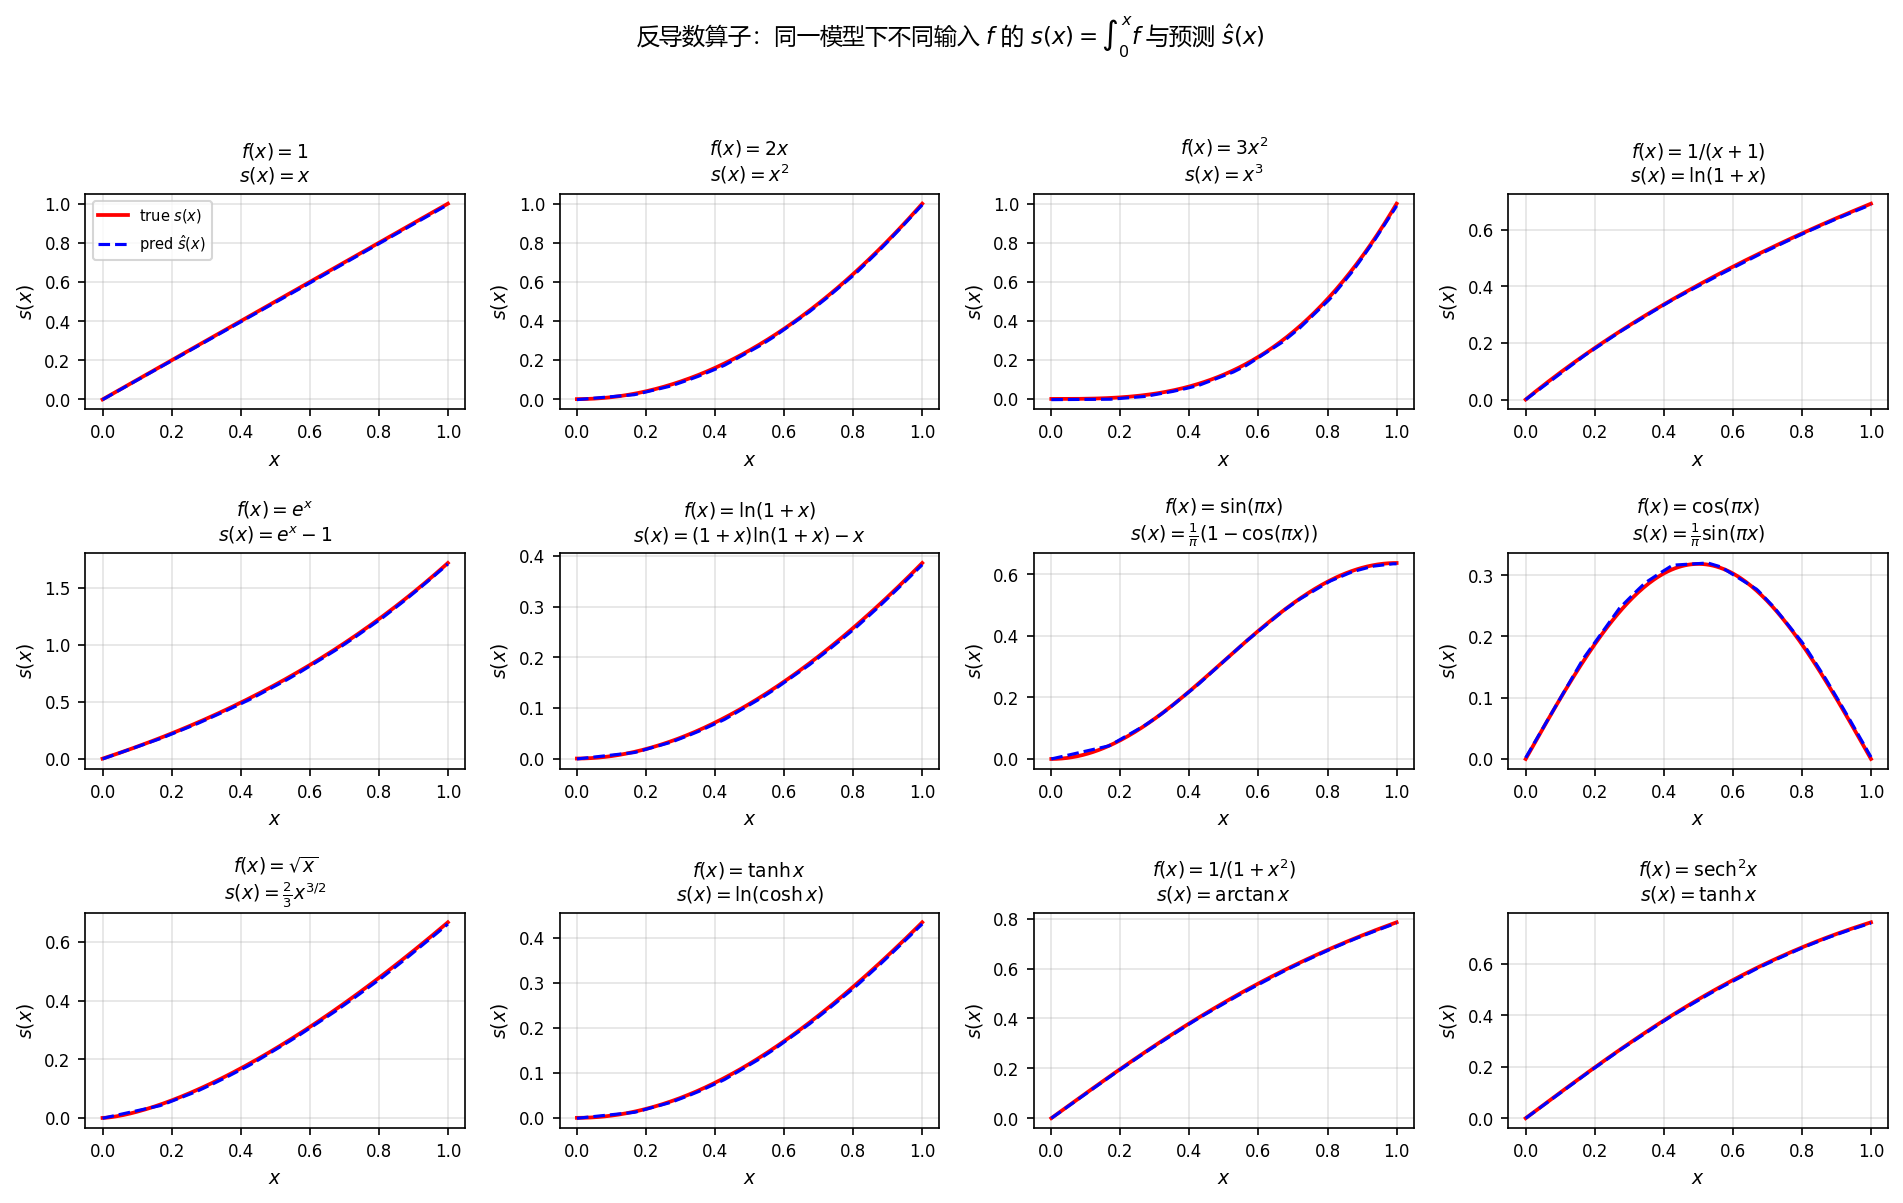
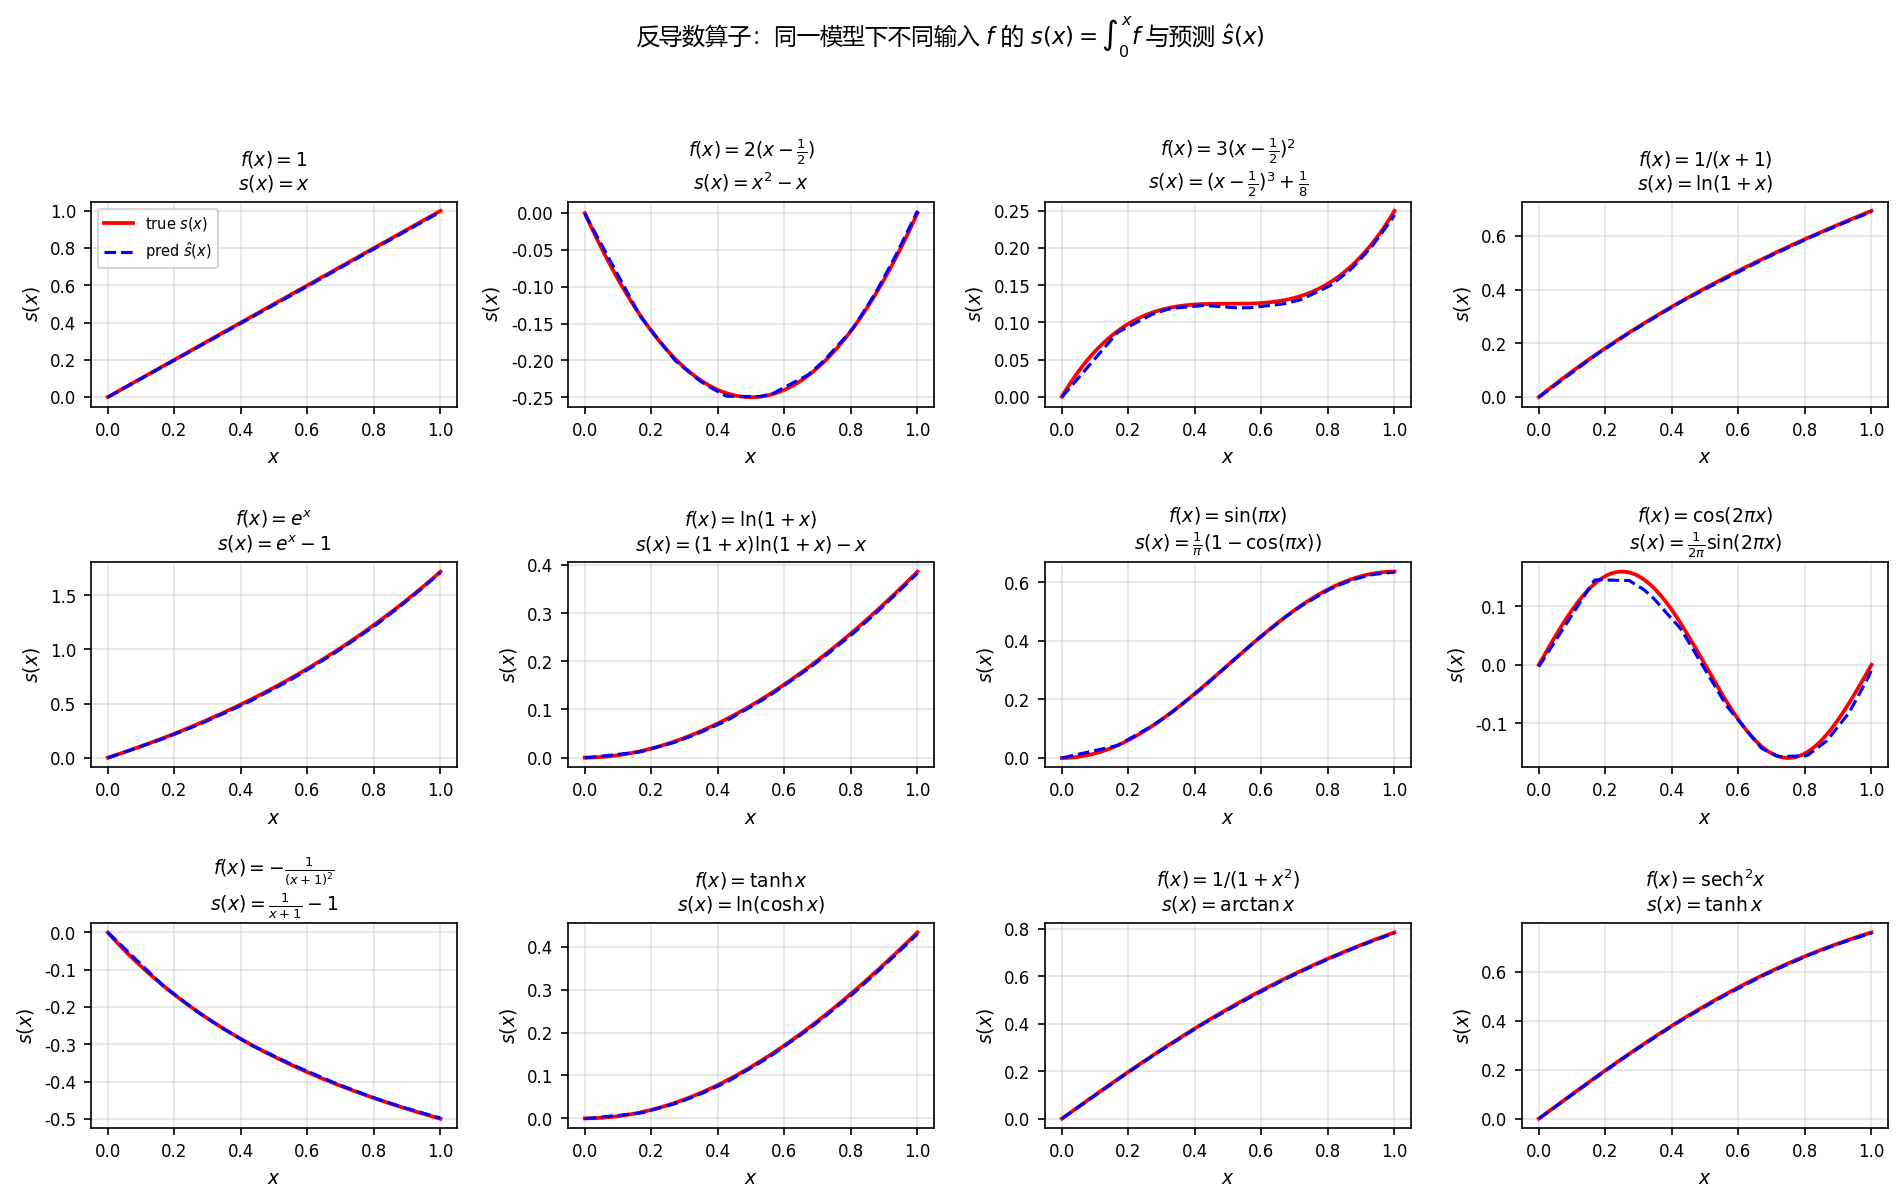
refactor(scripts): 修正反导数经典曲线实验的函数定义和标签
- 修改 f_2x 函数为 2.0 * (x - 0.5)，对应原函数 x**2 - x
- 修改 f_3x2 函数为 3.0 * (x - 0.5) ** 2，对应原函数 (x - 0.5) ** 3 + 0.125
- 添加 _tau 常量定义 2.0 * np.pi
- 将 f_cos 函数改为 cos(2.0 * np.pi * x)，原函数相应调整
- 替换 sqrt 相关函数为负倒数平方函数及其原函数
- 更新绘图标签以匹配新的函数表达式
- 添加负倒数平方函数和移位倒数函数的绘图支持

diff --git a/scripts/paper/plot_exp1_antiderivative_classic_curves.py b/scripts/paper/plot_exp1_antiderivative_classic_curves.py
@@ -232,16 +232,16 @@ def default_classic_cases() -> (
         return x
 
     def f_2x(x: np.ndarray) -> np.ndarray:
-        return 2.0 * x
+        return 2.0 * (x - 0.5)
 
     def s_2x(x: np.ndarray) -> np.ndarray:
-        return x**2
+        return x**2 - x
 
     def f_3x2(x: np.ndarray) -> np.ndarray:
-        return 3.0 * x**2
+        return 3.0 * (x - 0.5) ** 2
 
     def s_3x2(x: np.ndarray) -> np.ndarray:
-        return x**3
+        return (x - 0.5) ** 3 + 0.125
 
     def f_inv_x1(x: np.ndarray) -> np.ndarray:
         return 1.0 / (x + 1.0)
@@ -261,6 +261,8 @@ def default_classic_cases() -> (
     def s_ln1p(x: np.ndarray) -> np.ndarray:
         return (1.0 + x) * np.log(1.0 + x) - x
 
+    _tau = 2.0 * np.pi
+
     def f_sin(x: np.ndarray) -> np.ndarray:
         return np.sin(np.pi * x)
 
@@ -268,16 +270,17 @@ def default_classic_cases() -> (
         return (1.0 / np.pi) * (1.0 - np.cos(np.pi * x))
 
     def f_cos(x: np.ndarray) -> np.ndarray:
-        return np.cos(np.pi * x)
+        return np.cos(2.0 * np.pi * x)
 
     def s_cos(x: np.ndarray) -> np.ndarray:
-        return (1.0 / np.pi) * np.sin(np.pi * x)
+        return (0.5 / np.pi) * np.sin(2.0 * np.pi * x)
 
-    def f_sqrt(x: np.ndarray) -> np.ndarray:
-        return np.sqrt(np.maximum(x, 0.0))
+    def f_neg_inv_sq(x: np.ndarray) -> np.ndarray:
+        return -1.0 / (x + 1.0) ** 2
 
-    def s_sqrt(x: np.ndarray) -> np.ndarray:
-        return (2.0 / 3.0) * np.power(np.maximum(x, 0.0), 1.5)
+    def s_inv_shift(x: np.ndarray) -> np.ndarray:
+        """原函数 1/(x+1)，与 f 配套；配合 run_plot 中减去 s(lo) 得 s(x)=1/(x+1)-1/s(lo+1)，lo=0 时为 1/(x+1)-1。"""
+        return 1.0 / (x + 1.0)
 
     def f_tanh(x: np.ndarray) -> np.ndarray:
         return np.tanh(x)
@@ -300,8 +303,18 @@ def default_classic_cases() -> (
 
     return [
         (r"$f(x)=1$", r"$s(x)=x$", f_one, s_one),
-        (r"$f(x)=2x$", r"$s(x)=x^2$", f_2x, s_2x),
-        (r"$f(x)=3x^2$", r"$s(x)=x^3$", f_3x2, s_3x2),
+        (
+            r"$f(x)=2(x-\frac{1}{2})$",
+            r"$s(x)=x^2-x$",
+            f_2x,
+            s_2x,
+        ),
+        (
+            r"$f(x)=3(x-\frac{1}{2})^2$",
+            r"$s(x)=(x-\frac{1}{2})^3+\frac{1}{8}$",
+            f_3x2,
+            s_3x2,
+        ),
         (r"$f(x)=1/(x+1)$", r"$s(x)=\ln(1+x)$", f_inv_x1, s_inv_x1),
         (r"$f(x)=e^x$", r"$s(x)=e^x-1$", f_exp, s_exp),
         (
@@ -317,12 +330,17 @@ def default_classic_cases() -> (
             s_sin,
         ),
         (
-            r"$f(x)=\cos(\pi x)$",
-            r"$s(x)=\frac{1}{\pi}\sin(\pi x)$",
+            r"$f(x)=\cos(2\pi x)$",
+            r"$s(x)=\frac{1}{2\pi}\sin(2\pi x)$",
             f_cos,
             s_cos,
         ),
-        (r"$f(x)=\sqrt{x}$", r"$s(x)=\frac{2}{3}x^{3/2}$", f_sqrt, s_sqrt),
+        (
+            r"$f(x)=-\frac{1}{(x+1)^2}$",
+            r"$s(x)=\frac{1}{x+1}-1$",
+            f_neg_inv_sq,
+            s_inv_shift,
+        ),
         (r"$f(x)=\tanh x$", r"$s(x)=\ln(\cosh x)$", f_tanh, s_tanh),
         (r"$f(x)=1/(1+x^2)$", r"$s(x)=\arctan x$", f_arctan_prime, s_arctan),
         (r"$f(x)=\mathrm{sech}^2 x$", r"$s(x)=\tanh x$", f_sech2, s_sech2),
